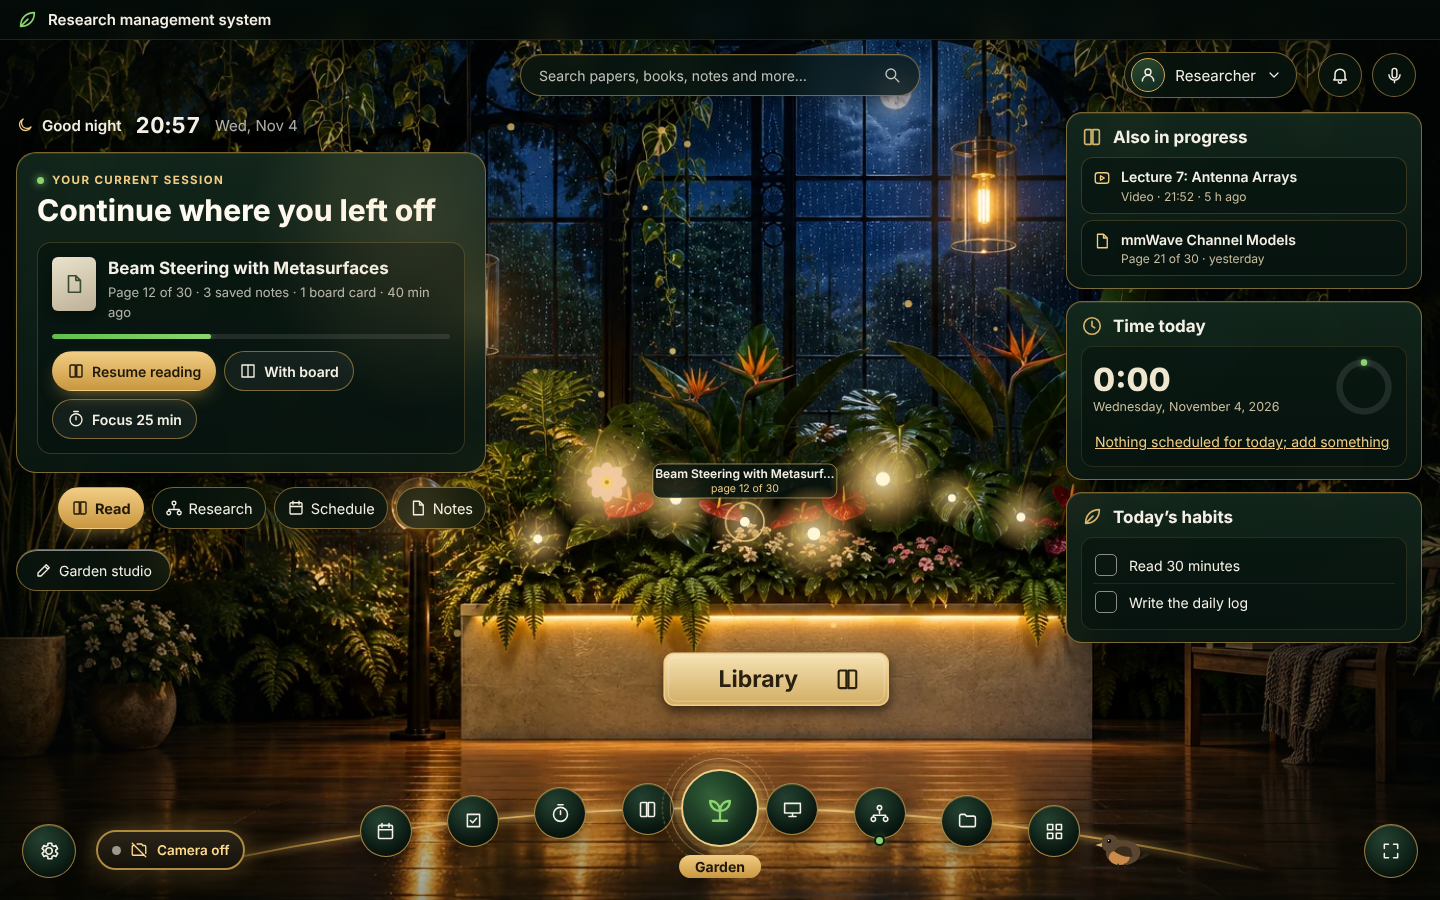
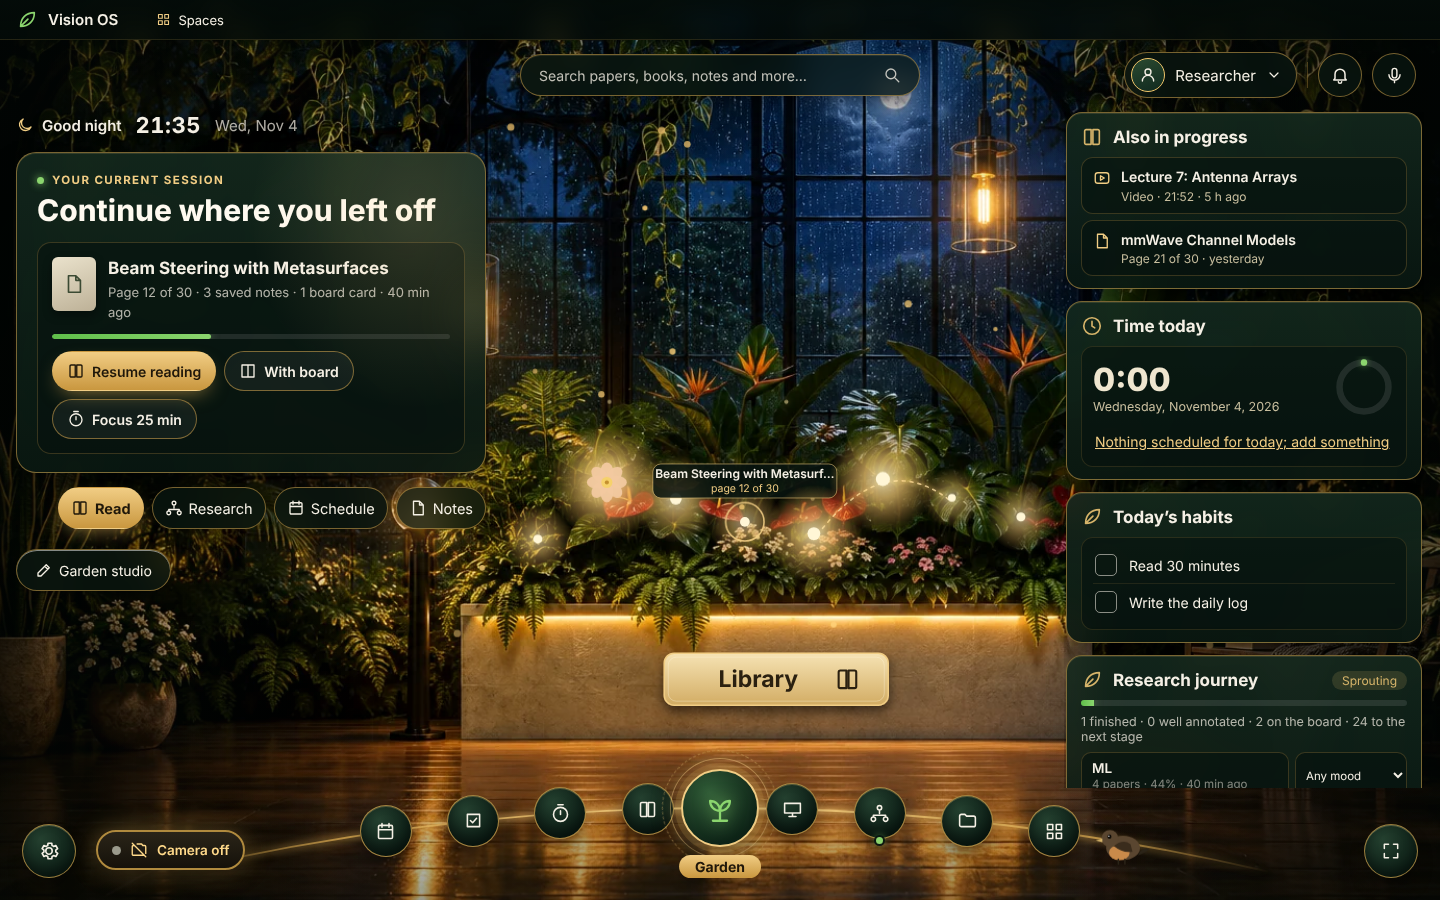
README: animated demo, new screenshots, design inspirations
- An animated demo recorded from replayed gesture events shows the three
  things that set Vision OS apart: resuming and turning PDF pages by hand,
  pinch-carrying a highlight onto the knowledge board, and returning to a
  garden that shows where you are.
- Fresh Home, side-by-side workspace and paper-map screenshots; features,
  shortcuts and third-party notes updated for the new workspace.
- A «Design inspirations» table credits the projects whose ideas were
  adapted (daedalOS, MewoOS, AFFiNE, tldraw, Lively, Reor, Motion
  Primitives, React Bits, Puter); only Motion (MIT) is used as code.
- Dev-only status hook so demos and UI tests can show the hand cursor.

diff --git a/src/vision/engine.ts b/src/vision/engine.ts
@@ -169,4 +169,4 @@ class VisionEngine {
 export const vision = new VisionEngine();
 
 // development only: lets automated UI tests replay gesture events without a camera
-if (import.meta.env.DEV) Object.assign(globalThis, { __vosVision: vision });
+if (import.meta.env.DEV) Object.assign(globalThis, { __vosVision: vision, __vosVisionStatus: visionStatus });

diff --git a/README.md b/README.md
@@ -6,14 +6,22 @@ Vision OS is a desktop shell (Tauri + React) that feels like a separate operatin
 
 It is not a kernel or a standalone OS. It runs on top of Windows, and everything (camera processing, AI and data) stays on your computer.
 
-![Home screen](docs/screenshots/home.png)
+![Demo: resume a paper by hand, turn pages with a swipe, pinch-carry a highlight onto the knowledge board, and return to a garden that shows where you are](docs/screenshots/demo.gif)
+
+*Pick up where you left off, turn pages with a swipe, carry a highlight onto the board with a pinch, and come back to a garden that remembers (recorded with replayed gesture events).*
 
 ## Features
 
-- **A living research workspace.** Home is built around the work in progress rather than the clock: a *current session* card shows the paper or video you were on (page, saved notes, board cards) with one-click *Resume*, *With board* (split view) and *Focus* actions, and it switches to the focus session or a schedule item that is about to start when those matter more. The dock marks the active tool and puts a small live dot on tools that hold state (open paper, video, running timer, board cards). The scene follows the time of day, quiets its lights while a focus session runs and blooms when one is completed; the paper you are reading is ringed and labelled in the garden. Every transition respects reduced motion.
+- **A living research workspace.** Home is built around the work in progress rather than the clock: a *current session* card shows the paper or video you were on (page, saved notes, board cards) with one-click *Resume*, *With board* and *Focus* actions, and switches to a running focus session or a schedule item that is about to start when those matter more. A focus session ends with a short summary (minutes, pages, highlights, board cards) and a way straight back to the page.
+- **Persistent multi-pane workspace.** Reader, knowledge board and video stay open in the background once used, so switching never loses a scroll position or a playing video. Put a second tool beside the current one behind a draggable splitter (mouse, arrow keys or a pinch), let a started video float in a small player while you work elsewhere, and use the title-bar tabs (with live previews) to move between them. Only the active pane takes shortcuts, menus and voice commands.
+- **Research spaces.** Save the whole space (layout, paper and video positions, scene and sound mix) under a name and restore it later from the title bar or `Ctrl+K`. Local PDFs are kept on this computer so they reopen after a restart.
+- **A garden that lives with your work.** The scene follows the time of day and the real weather, quiets down during focus and blooms when a session is completed; it calms under work screens and pauses when the window is hidden or the battery is low. The paper you are reading is ringed and labelled with its page, related papers are joined by threads of light, and the garden grows through five stages from meaningful progress (finished, annotated and mapped papers, named connections, focused hours), never from clicks or elapsed time. Each project (collection) remembers its progress and can carry its own mood.
+- **Related-paper discovery.** Connections between papers are found on this computer from titles, highlights and board clips, always with the shared terms as evidence; an optional local embedding model deepens the match. New papers in the library come with a suggestion of how they connect to earlier work.
+- **Companion.** A small bird beside the dock that blinks, wanders, pecks, sleeps when nobody is at the computer, rests during focus, stretches when a break is due and is happy when petted. It never speaks or pops up and can be turned off.
+- **Learn by doing.** A seven-step gesture practice opens the first time hand control turns on (and from the calibration screen); the hand cursor shows a hold ring and a confirmation for every recognised command. A first-session checklist on Home ticks itself off as you open a paper, put a quote on the board, focus and save a space.
 - **Hand-gesture control.** MediaPipe hand tracking turns your index knuckle into a cursor. A pinch clicks, a held pinch drags, a V sign scrolls, an open-palm swipe turns pages, a two-hand pinch zooms, and holding an open palm opens a radial menu. Every threshold can be tuned on the *Gestures and calibration* screen.
 - **PDF reader.** Text-anchored highlights in several colors, a pen, a precision magnifier, bookmarks, focus mode and a split view with the knowledge board. Papers from your Marginal library open at the page you stopped on.
-- **Knowledge board.** Clip selected text (`C`) or draw a box around a figure in the reader, or send a moment from a YouTube video. Every card links back to its page or second in the source. Cards can be connected, and the board has pan/zoom, undo/redo and JSON export.
+- **Knowledge board.** Drag (or pinch-carry) highlights, text selections, AI answers, video bookmarks and images onto the canvas, clip with `C`, or draw a box around a figure in the reader. Every card links back to its page or second in the source. Group cards in frames, colour notes, label connections (supports, contradicts…), and build a *paper map* that gathers clips around their papers and links related papers. Pan/zoom, undo/redo and JSON export.
 - **Local AI assistant (Ollama).** Explain, simplify, expand, summarize, critique the method, or ask about engineering use, either on the selected text, the current page or a board card. Figure cards are sent to a vision model as images. Answers must cite the page and mark anything unsupported as "(needs checking)". Nothing is sent to a cloud service.
 - **Focus studio.** Pomodoro and Flowtime timers that can be linked to a paper, a floating mini-timer, weekly stats by tag, a task list and generated ambient sound (rain, wind, stream, birds). Optional "dew drop" rewards can be spent in the garden. There are no penalties.
 - **Garden studio.** Plant and arrange plants and objects in the greenhouse with a snap grid, undo/redo, watering and a garden journal. Each paper in your library grows as a flower that blooms with your reading progress.
@@ -23,9 +31,13 @@ It is not a kernel or a standalone OS. It runs on top of Windows, and everything
 - **Face lock.** An optional lock that opens when it recognizes your face and you blink, with a backup PIN.
 - **Moods and appearance.** Night greenhouse (photo), morning, rainy, warm sunset and painted night scenes; a companion bird that rests during focus and celebrates a finished session (can be turned off); a reduced-motion mode; or your Windows wallpaper as the background.
 
-| Reader | Library |
+| Home | Reader + board side by side |
 |---|---|
-| ![PDF reader](docs/screenshots/reader.png) | ![Library](docs/screenshots/library.png) |
+| ![Home](docs/screenshots/home.png) | ![Reader with the knowledge board beside it](docs/screenshots/workspace.png) |
+
+| Paper map | Library |
+|---|---|
+| ![Paper map on the knowledge board](docs/screenshots/board-map.png) | ![Library](docs/screenshots/library.png) |
 
 | Focus studio | Settings |
 |---|---|
@@ -77,7 +89,7 @@ You can also run only the interface in a browser at `http://localhost:5280` with
 |---|---|
 | `Ctrl+Alt+V` | Camera on / off |
 | `Esc` | Stop hand control immediately |
-| `Ctrl+K` | Command bar: search papers, videos, the board and screens, or run a command |
+| `Ctrl+K` | Command bar: search papers, videos, the board, tools and saved spaces, or run a command |
 | `Ctrl+Shift+Space` | Voice command (where speech recognition is available) |
 | `Ctrl+Alt+L` | Lock |
 | `F11` | Fullscreen |
@@ -85,6 +97,9 @@ You can also run only the interface in a browser at `http://localhost:5280` with
 | `B`, `H`, `C`, `A`, `L`, `F` | Reader: bookmark, highlight, clip to board, ask AI, magnifier, focus mode |
 | `+` / `−` | Reader: zoom |
 | `Ctrl+Z` / `Ctrl+Y`, `Delete` | Knowledge board: undo / redo, delete card |
+| `←` / `→` on the splitter | Resize side-by-side panes (double-click resets) |
+
+Shortcuts go to the pane you last touched when two tools are side by side.
 
 ## Voice and typed commands
 
@@ -125,8 +140,26 @@ npm test             # unit tests: gesture state machine, command parser, focus 
 npm run typecheck
 ```
 
+## Design inspirations
+
+Ideas (not code) were taken from these open-source projects and adapted to a research workspace:
+
+| Project | Idea used in Vision OS |
+|---|---|
+| [daedalOS](https://github.com/DustinBrett/daedalOS) | Persistent windows, a task strip with previews, layouts that come back |
+| [MewoOS](https://github.com/subhansh-dev/MewoOS) | A companion with its own small behaviours and memory, a lively dock |
+| [AFFiNE](https://github.com/toeverything/AFFiNE) | Documents and canvas as one space: quotes, images and AI answers placed directly on the board |
+| [tldraw](https://github.com/tldraw/tldraw) | Frames, labelled connections and visual thinking on the board (no tldraw SDK is used) |
+| [Lively Wallpaper](https://github.com/rocksdanister/lively) | A living background that pauses when hidden, covered or on battery, and follows the weather |
+| [Reor](https://github.com/reorproject/reor) | Local discovery of related notes and papers, with visible evidence |
+| [Motion Primitives](https://github.com/ibelick/motion-primitives) | Spring-based UI motion through [Motion](https://motion.dev) (MIT), used for the dock |
+| [React Bits](https://github.com/DavidHDev/react-bits) | Restraint with effects: a few subtle, purposeful glows written from scratch (its components are not used) |
+| [Puter](https://github.com/HeyPuter/puter) | One app registry that the dock, launcher and hand menu are built from |
+
+A usability test protocol for comparing builds is in [docs/usability-test.md](docs/usability-test.md); the app has a matching study recorder under *Settings → Usability study*.
+
 ## Third-party assets
 
 - The hand and face landmark models in `public/models` are from Google [MediaPipe](https://ai.google.dev/edge/mediapipe) (Apache-2.0).
-- PDF rendering uses [pdf.js](https://mozilla.github.io/pdf.js/) (Apache-2.0). The UI font is [Inter](https://rsms.me/inter/) (SIL Open Font License).
+- PDF rendering uses [pdf.js](https://mozilla.github.io/pdf.js/) (Apache-2.0). Interface springs use [Motion](https://motion.dev) (MIT). The UI font is [Inter](https://rsms.me/inter/) (SIL Open Font License).
 - The greenhouse background image was generated with Figma AI.
